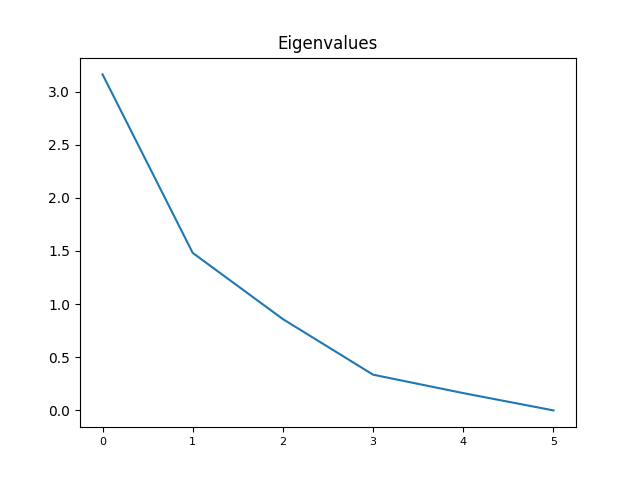
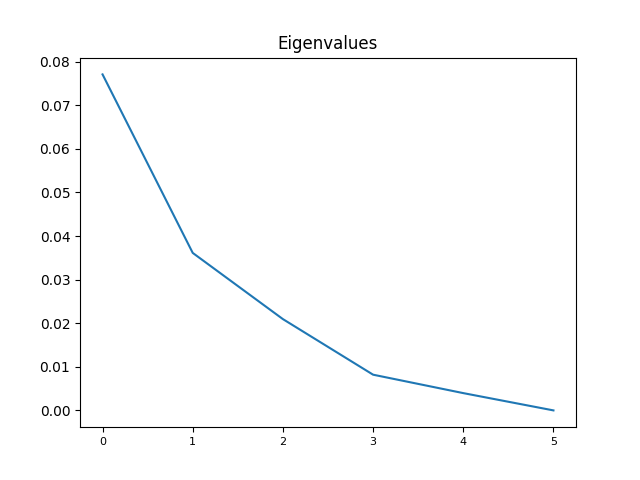
divide matrix S by 41

diff --git a/hw2/hw2-2.py b/hw2/hw2-2.py
@@ -45,7 +45,8 @@ with open(local_filename) as in_file:
         x_j_transpose = np.transpose(x_j)
         dot_product = np.dot(x_j,x_j_transpose)
         matrix_s = np.add(matrix_s,dot_product)
-
+    matrix_s = matrix_s / 41
+    
     #a
     w, v = np.linalg.eig(matrix_s)
     w_absolute = np.absolute(w)
